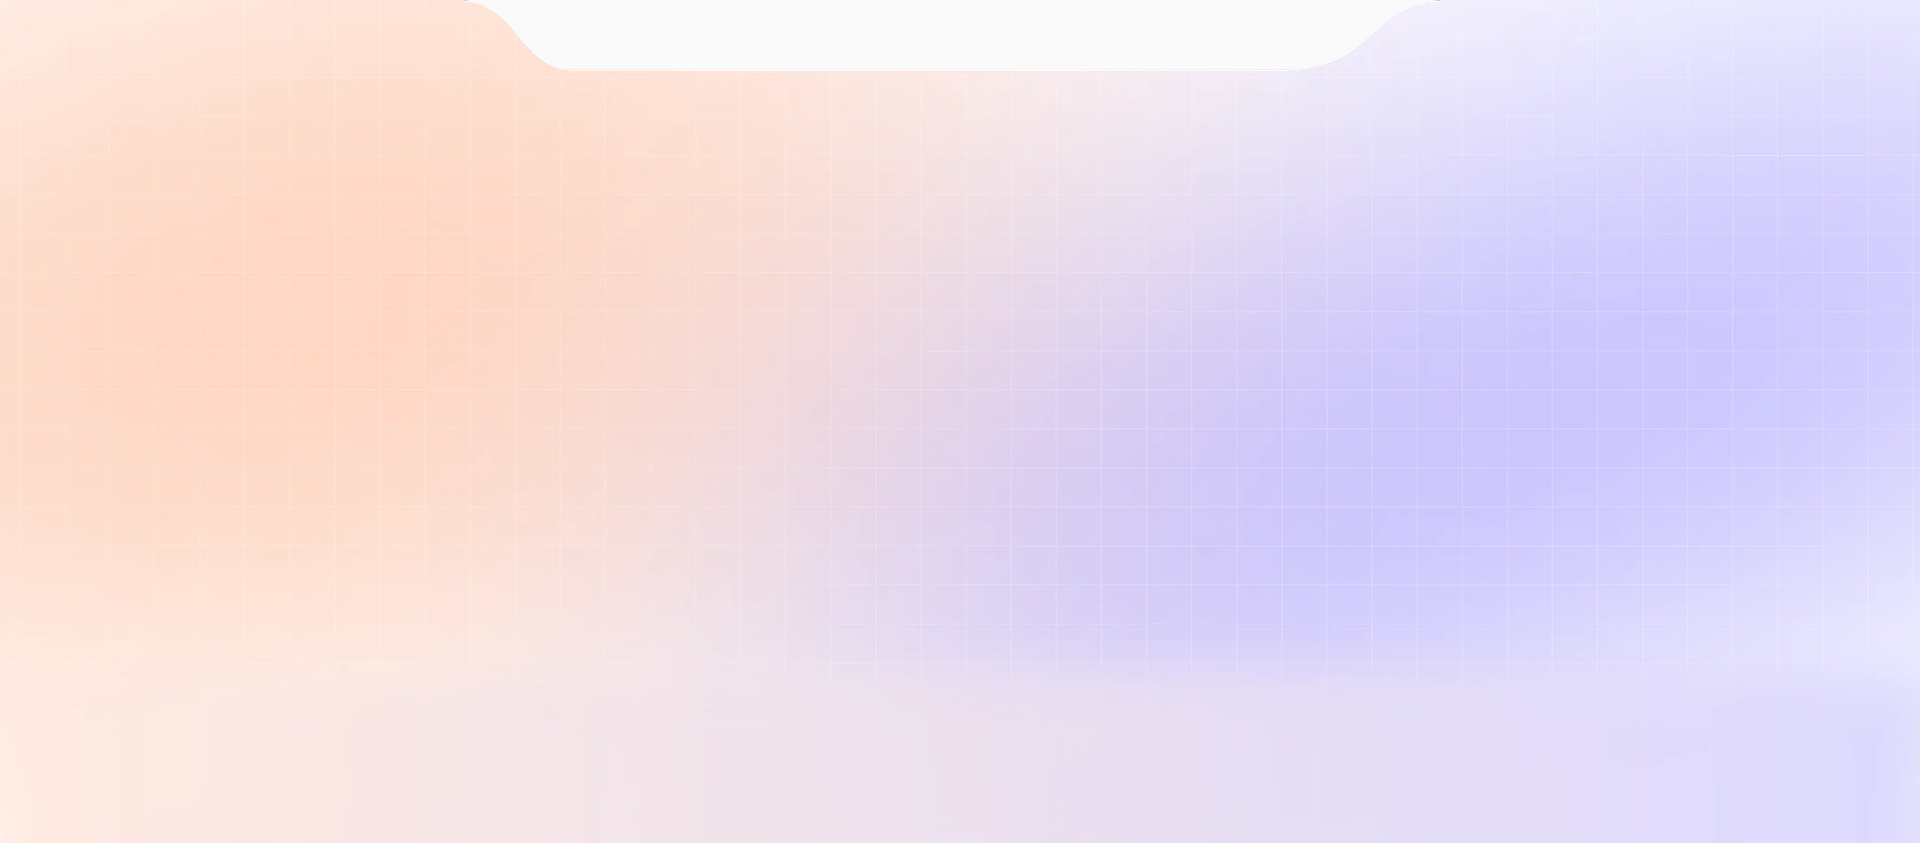
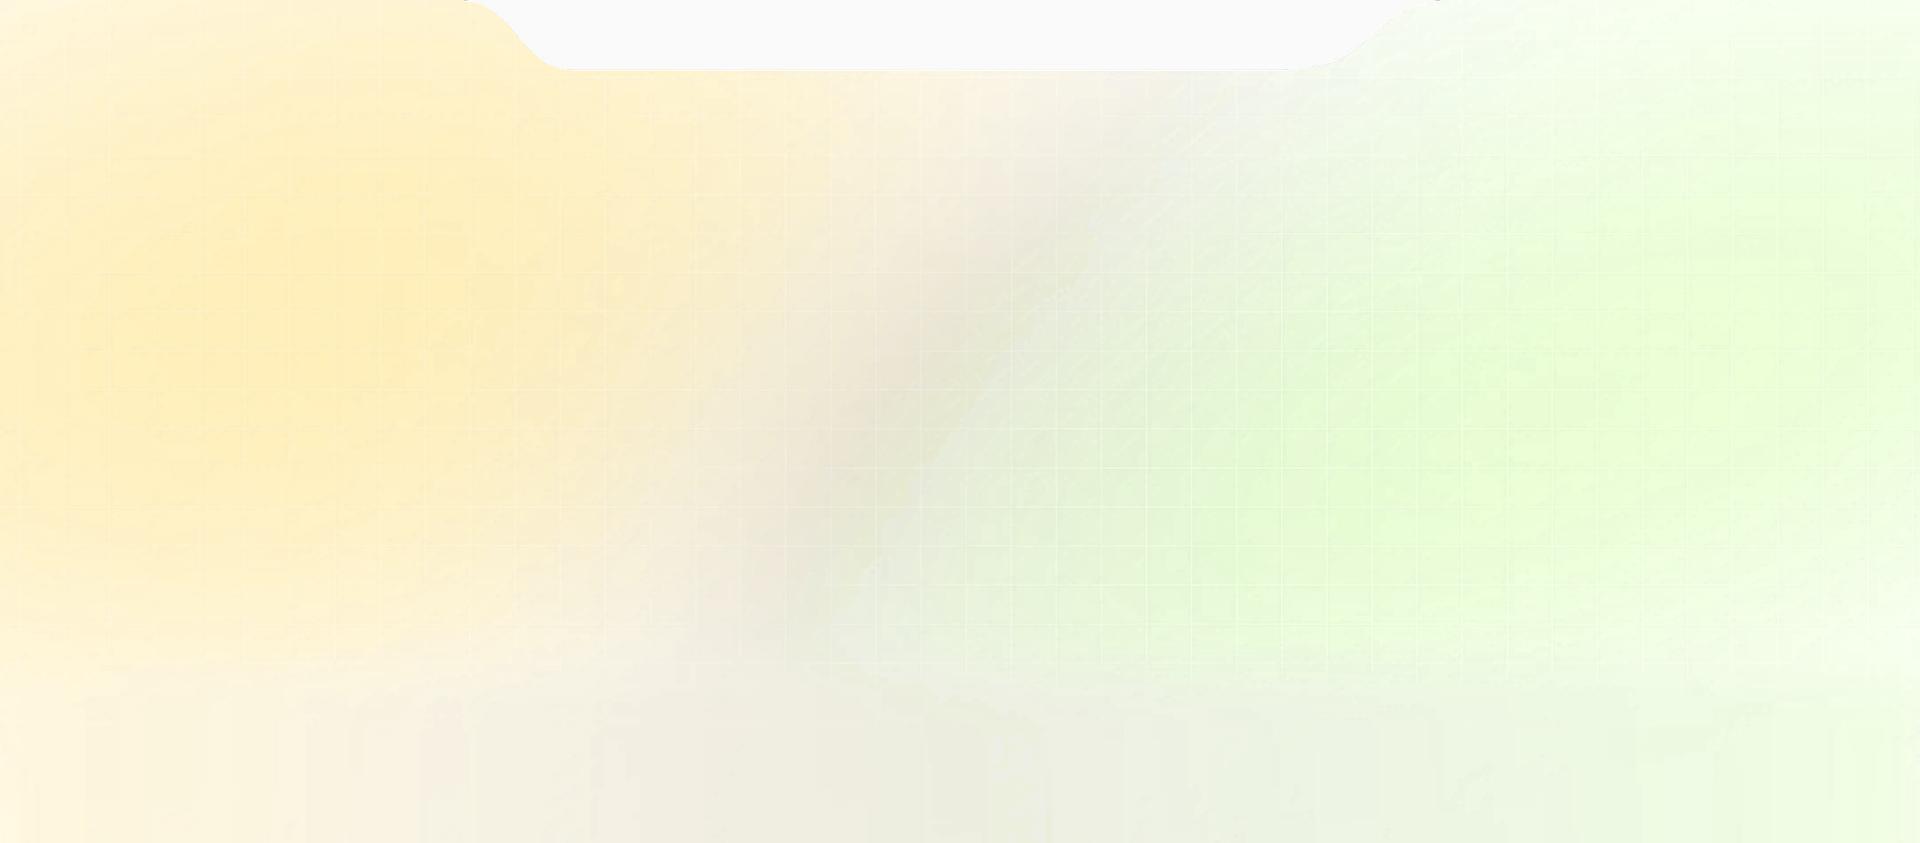
Interface

diff --git a/app/globals.css b/app/globals.css
@@ -107,7 +107,7 @@
   --ring: var(--pequi-500);
   --font-gilroy: var(--font-inter-tight);
   --font-landing: var(--font-inter-tight);
-  --font-heading: var(--font-gilroy);
+  --font-heading: var(--font-fraunces), Georgia, 'Times New Roman', serif;
 }
 
 @theme inline {
@@ -188,11 +188,17 @@
 
   h1,
   h2,
-  h3,
+  h3 {
+    font-family: var(--font-heading);
+    font-weight: 500;
+    letter-spacing: -0.015em;
+    font-optical-sizing: auto;
+  }
+
   h4,
   h5,
   h6 {
-    font-family: var(--font-heading);
+    font-family: var(--font-sans);
     font-weight: 500;
     letter-spacing: -0.02em;
   }
@@ -307,16 +313,16 @@
 
 .btn-primary-gradient {
   background: linear-gradient(189deg, var(--pequi-300) 10%, var(--pequi-500) 55%, var(--pequi-600) 100%) !important;
-  box-shadow: 0 4px 12px 0 rgba(176, 127, 4, 0.28), 0 -2px 2px 0 rgba(135, 97, 10, 0.45) inset !important;
+  box-shadow: 0 1px 2px 0 rgba(60, 45, 10, 0.08) !important;
   color: var(--pq-on-brand) !important;
-  font-weight: 600;
+  font-weight: 500;
   transition: all 250ms ease !important;
 }
 
 .btn-primary-gradient:hover {
-  transform: translateY(-2px) !important;
-  filter: brightness(1.04) saturate(1.05) !important;
-  box-shadow: 0 10px 24px rgba(176, 127, 4, 0.32), 0 -2px 2px 0 rgba(135, 97, 10, 0.45) inset !important;
+  transform: translateY(-1px) !important;
+  filter: brightness(1.03) !important;
+  box-shadow: 0 2px 6px 0 rgba(60, 45, 10, 0.10) !important;
 }
 
 .btn-primary-gradient:active {
@@ -616,9 +622,6 @@ details[open] .faqMinus {
 
 /* Landing page font scope: enforce Gilroy on headings too */
 .landing-gilroy,
-.landing-gilroy h1,
-.landing-gilroy h2,
-.landing-gilroy h3,
 .landing-gilroy h4,
 .landing-gilroy h5,
 .landing-gilroy h6,
@@ -630,16 +633,31 @@ details[open] .faqMinus {
   font-family: var(--font-landing), system-ui, sans-serif !important;
 }
 
+/* Títulos da landing usam a fonte de títulos (Fraunces) */
+.landing-gilroy h1,
+.landing-gilroy h2,
+.landing-gilroy h3 {
+  font-family: var(--font-heading) !important;
+  font-optical-sizing: auto;
+  letter-spacing: -0.015em;
+}
+
+.landing-gilroy h1 span,
+.landing-gilroy h2 span,
+.landing-gilroy h3 span {
+  font-family: inherit !important;
+}
+
 .landing-primary-btn {
   border-radius: 29.51363rem;
   background: linear-gradient(189deg, var(--pequi-300) 10%, var(--pequi-500) 55%, var(--pequi-600) 100%);
-  box-shadow: 0 4px 12px 0 rgba(176, 127, 4, 0.28), 0 -2px 2px 0 rgba(135, 97, 10, 0.45) inset;
+  box-shadow: 0 1px 2px 0 rgba(60, 45, 10, 0.08);
   color: var(--pq-on-brand);
   text-align: center;
   font-family: var(--font-landing), system-ui, sans-serif;
   font-size: 1rem;
   font-style: normal;
-  font-weight: 500;
+  font-weight: 400;
   line-height: 1.65275rem;
   letter-spacing: -0.01181rem;
   text-transform: capitalize;
@@ -647,9 +665,9 @@ details[open] .faqMinus {
 }
 
 .landing-primary-btn:hover {
-  transform: translateY(-2px);
-  filter: brightness(1.04) saturate(1.05);
-  box-shadow: 0 10px 24px rgba(176, 127, 4, 0.32), 0 -2px 2px 0 rgba(135, 97, 10, 0.45) inset;
+  transform: translateY(-1px);
+  filter: brightness(1.03);
+  box-shadow: 0 2px 6px 0 rgba(60, 45, 10, 0.10);
 }
 
 .landing-secondary-btn {

diff --git a/app/components/landingpage/FeaturesSection.tsx b/app/components/landingpage/FeaturesSection.tsx
@@ -65,15 +65,15 @@ export default function FeaturesSection() {
           </article>
 
           <article className="landing-card lg:col-span-4 p-4 md:p-5">
-            <div className="rounded-[0.9rem] border border-castanha-150 bg-[linear-gradient(160deg,#171825_0%,#23253b_100%)] p-5 text-white">
+            <div className="rounded-[0.9rem] border border-castanha-150 bg-[linear-gradient(160deg,var(--cerrado-950)_0%,var(--cerrado-800)_100%)] p-5 text-white">
               <p className="text-[0.78rem] font-semibold uppercase tracking-[0.08em] text-white/75">Recurso em destaque</p>
               <h4 className="mt-2 text-[1.2rem] font-medium leading-snug">Assistente Jurídico com IA</h4>
               <ul className="mt-5 space-y-2.5 text-[0.92rem] leading-relaxed text-white/85">
-                <li className="flex items-start gap-2"><span className="mt-1 text-white">▶</span><span>Faça perguntas jurídicas em linguagem simples.</span></li>
-                <li className="flex items-start gap-2"><span className="mt-1 text-white">▶</span><span>Receba apoio contextualizado na redação e resumos.</span></li>
-                <li className="flex items-start gap-2"><span className="mt-1 text-white">▶</span><span>Alertas de risco por cláusula, com sugestões de próximos passos.</span></li>
-                <li className="flex items-start gap-2"><span className="mt-1 text-white">▶</span><span>Confira referências com seu acervo de documentos instantaneamente.</span></li>
-                <li className="flex items-start gap-2"><span className="mt-1 text-white">▶</span><span>Prepare respostas prontas para o cliente com tom jurídico consistente.</span></li>
+                <li className="flex items-start gap-2"><span className="mt-1 text-pequi-400">▶</span><span>Faça perguntas jurídicas em linguagem simples.</span></li>
+                <li className="flex items-start gap-2"><span className="mt-1 text-pequi-400">▶</span><span>Receba apoio contextualizado na redação e resumos.</span></li>
+                <li className="flex items-start gap-2"><span className="mt-1 text-pequi-400">▶</span><span>Alertas de risco por cláusula, com sugestões de próximos passos.</span></li>
+                <li className="flex items-start gap-2"><span className="mt-1 text-pequi-400">▶</span><span>Confira referências com seu acervo de documentos instantaneamente.</span></li>
+                <li className="flex items-start gap-2"><span className="mt-1 text-pequi-400">▶</span><span>Prepare respostas prontas para o cliente com tom jurídico consistente.</span></li>
               </ul>
               <div className="mt-5 rounded-xl border border-white/15 bg-white/10 px-3 py-2 text-[0.8rem] text-white/80 transition-all duration-300 hover:border-white/30 hover:bg-white/15">
                 Pronto para contratos, compliance e preparação de casos.

diff --git a/app/layout.tsx b/app/layout.tsx
@@ -1,5 +1,5 @@
 import type { Metadata } from "next";
-import { Inter, Lexend_Deca, Playfair_Display } from "next/font/google";
+import { Fraunces, Inter, Lexend_Deca, Playfair_Display } from "next/font/google";
 import localFont from "next/font/local";
 import "./globals.css";
 import DashboardAwareLayout from "./components/DashboardAwareLayout";
@@ -17,6 +17,14 @@ const playfair = Playfair_Display({
   subsets: ["latin"],
   variable: '--font-playfair',
   display: 'swap',
+});
+
+// Fonte dos títulos (h1, h2, h3): serifada moderna e calorosa
+const fraunces = Fraunces({
+  subsets: ["latin"],
+  variable: '--font-fraunces',
+  display: 'swap',
+  axes: ['opsz'],
 });
 
 const lexendDeca = Lexend_Deca({
@@ -53,7 +61,7 @@ export default function RootLayout({
   children: React.ReactNode;
 }>) {
   return (
-    <html lang="pt-BR" className={`${inter.variable} ${playfair.variable} ${lexendDeca.variable} ${interTight.variable}`}>
+    <html lang="pt-BR" className={`${inter.variable} ${fraunces.variable} ${playfair.variable} ${lexendDeca.variable} ${interTight.variable}`}>
       <body className="min-h-screen flex flex-col bg-background text-foreground" style={{ 
         ['--font-gilroy' as any]: `var(${interTight.variable})`,
         ['--font-landing' as any]: `var(${interTight.variable})`
